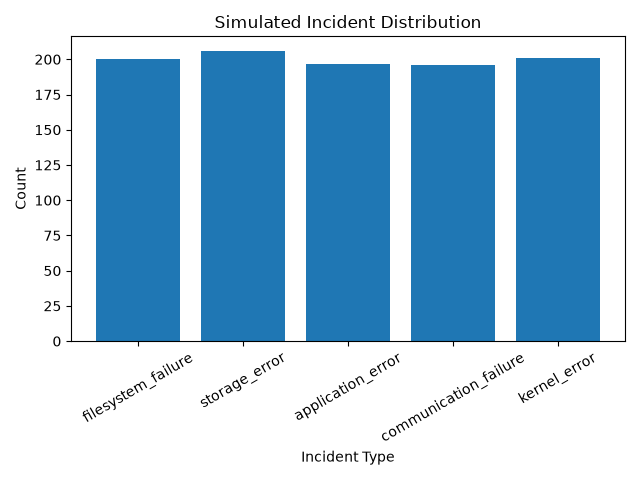
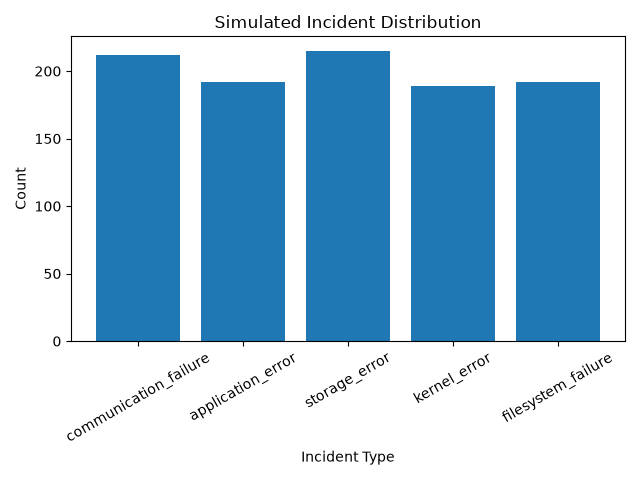
Ensure unique incident IDs

diff --git a/src/simulator.py b/src/simulator.py
@@ -57,7 +57,14 @@ def generate_incident():
 
 
 def generate_incidents(count=1000):
-    return [generate_incident() for _ in range(count)]
+    incidents = []
+
+    for i in range(count):
+        incident = generate_incident()
+        incident.incident_id = f"INC-{i + 1:06d}"
+        incidents.append(incident)
+
+    return incidents
 
 
 if __name__ == "__main__":
